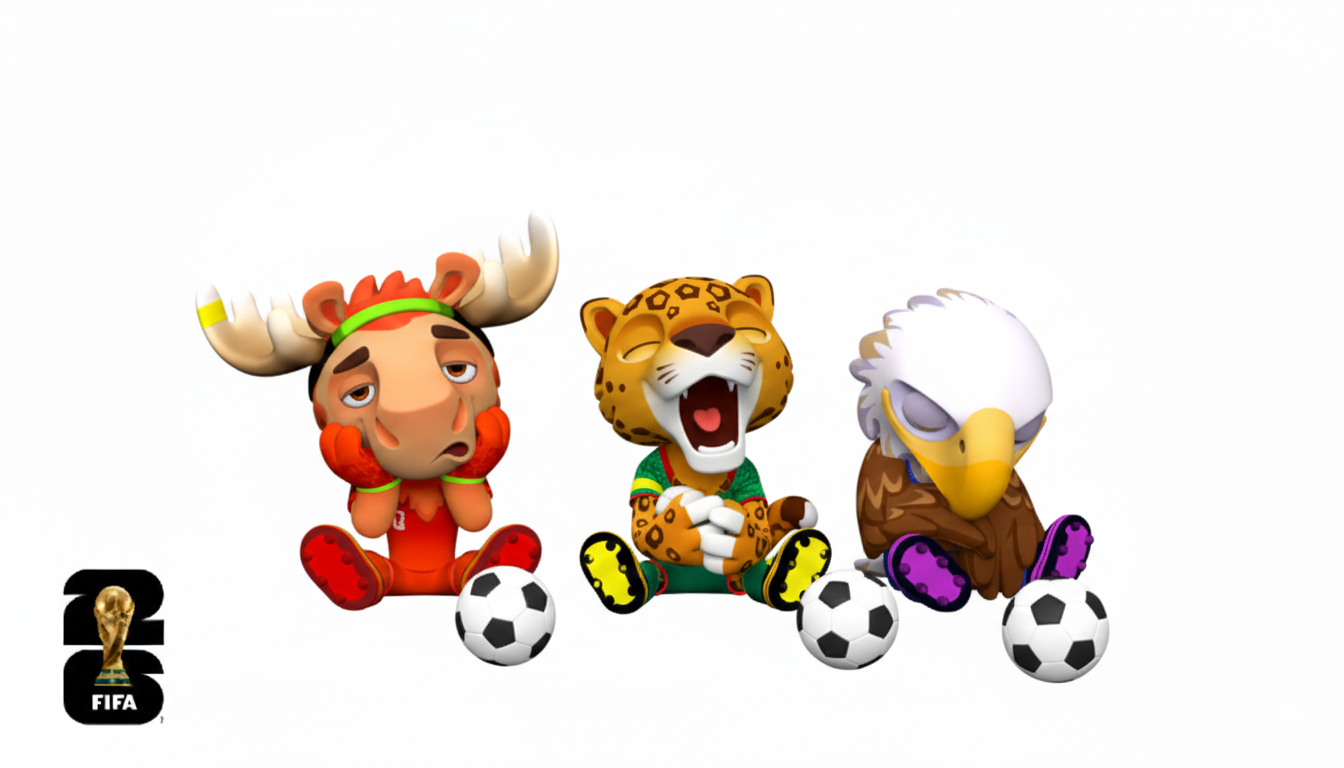
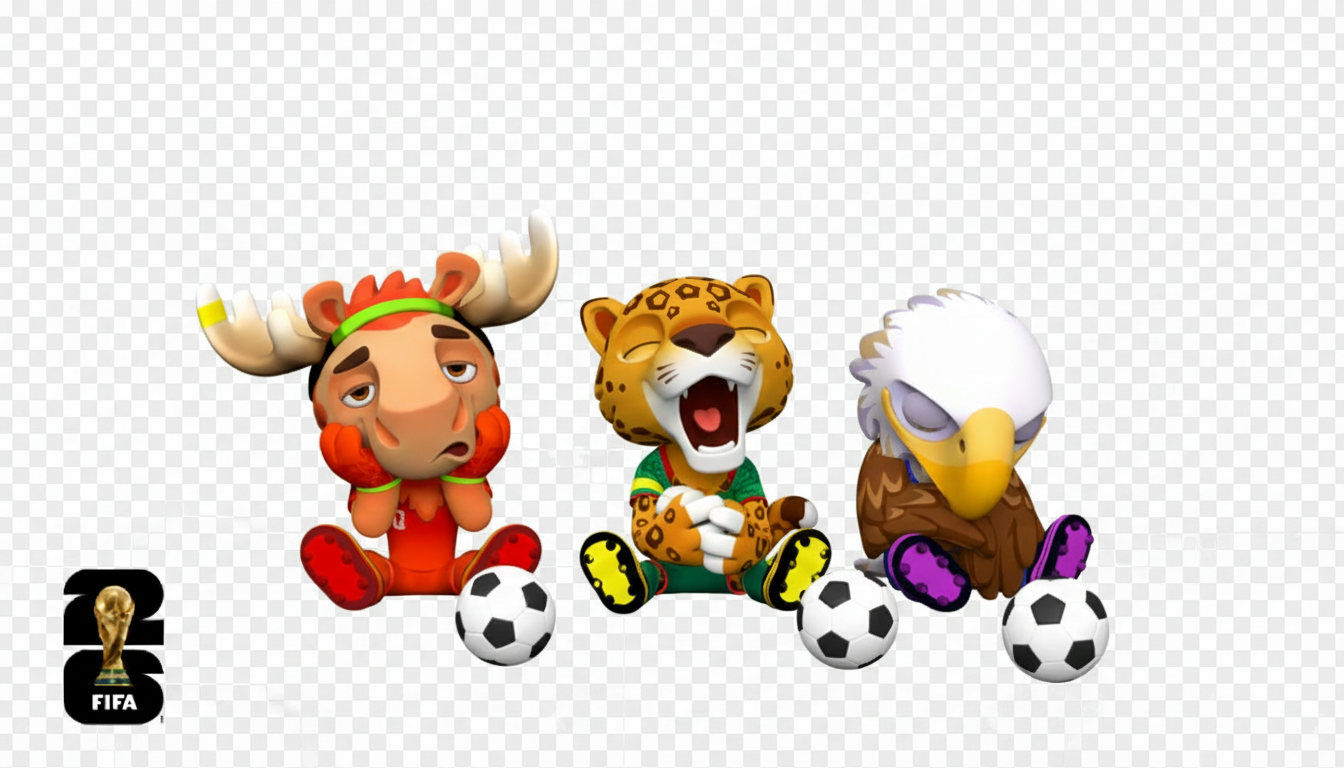
Changes

diff --git a/src/components/MatchesView.tsx b/src/components/MatchesView.tsx
@@ -78,7 +78,7 @@ export const MatchesView = () => {
             <img 
               src={mascotsWaiting} 
               alt="World Cup 2026 mascots waiting for matches" 
-              className="w-64 h-auto mx-auto opacity-90"
+              className="w-full max-w-[600px] h-auto mx-auto"
             />
             <p className="text-muted-foreground">No matches scheduled for today</p>
           </div>
